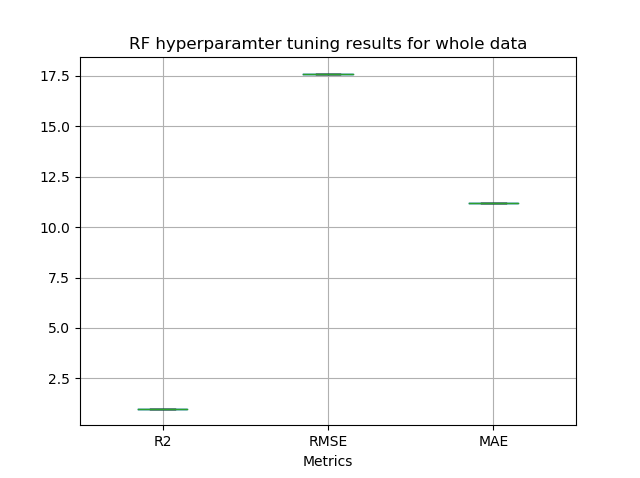
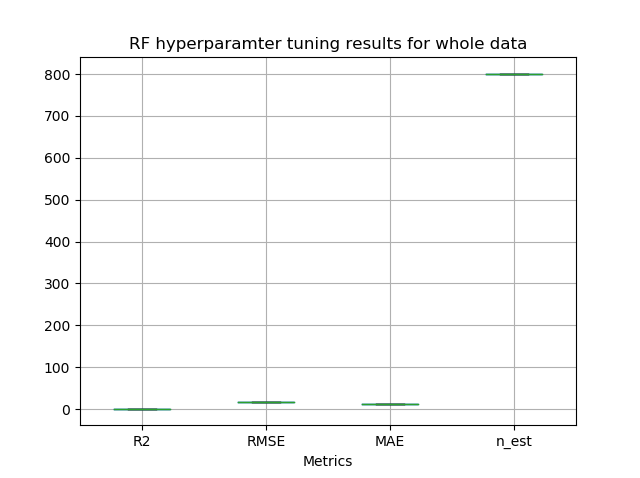
updating figures

diff --git a/Hyperparameters/boxplot_hyper.py b/Hyperparameters/boxplot_hyper.py
@@ -4,7 +4,7 @@ import pandas as pd
 
 # Creating plot plt.boxplot
 data = pd.read_csv("svrS_hyper.csv")
-data.boxplot(column=['R2','RMSE','MAE'])
+data.boxplot(column=['R2','RMSE','MAE', 'C','kernel'])
 plt.title('SVR hyperparamter tuning results')
 plt.xlabel('Metrics')
 plt.show()
@@ -18,7 +18,7 @@ plt.show()
 
 # Creating plot plt.boxplot
 data = pd.read_csv("rfL_hyper.csv")
-data.boxplot(column=['R2','RMSE','MAE'])
+data.boxplot(column=['R2','RMSE','MAE','n_est'])
 plt.title('RF hyperparamter tuning results for whole data')
 plt.xlabel('Metrics')
 plt.show()
